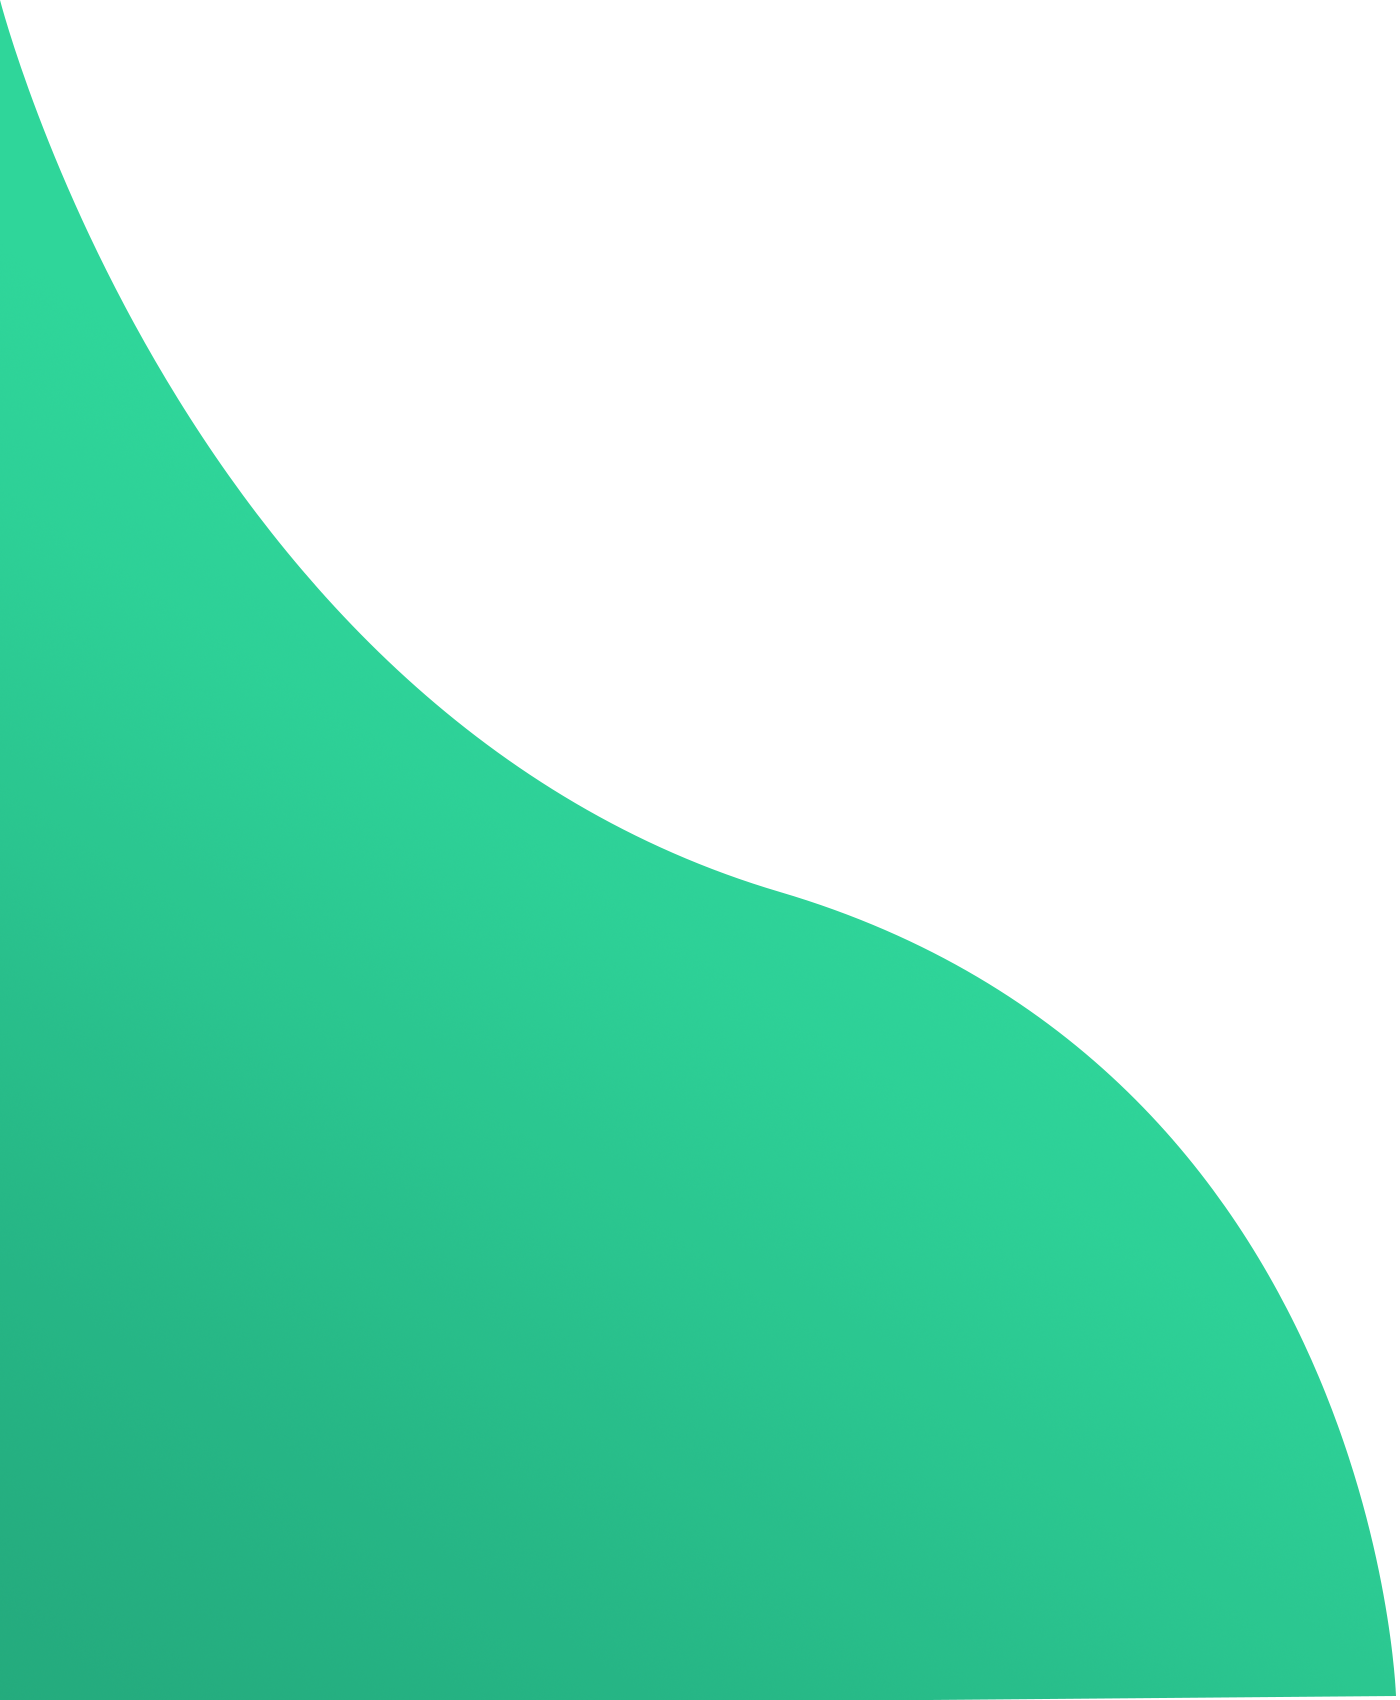
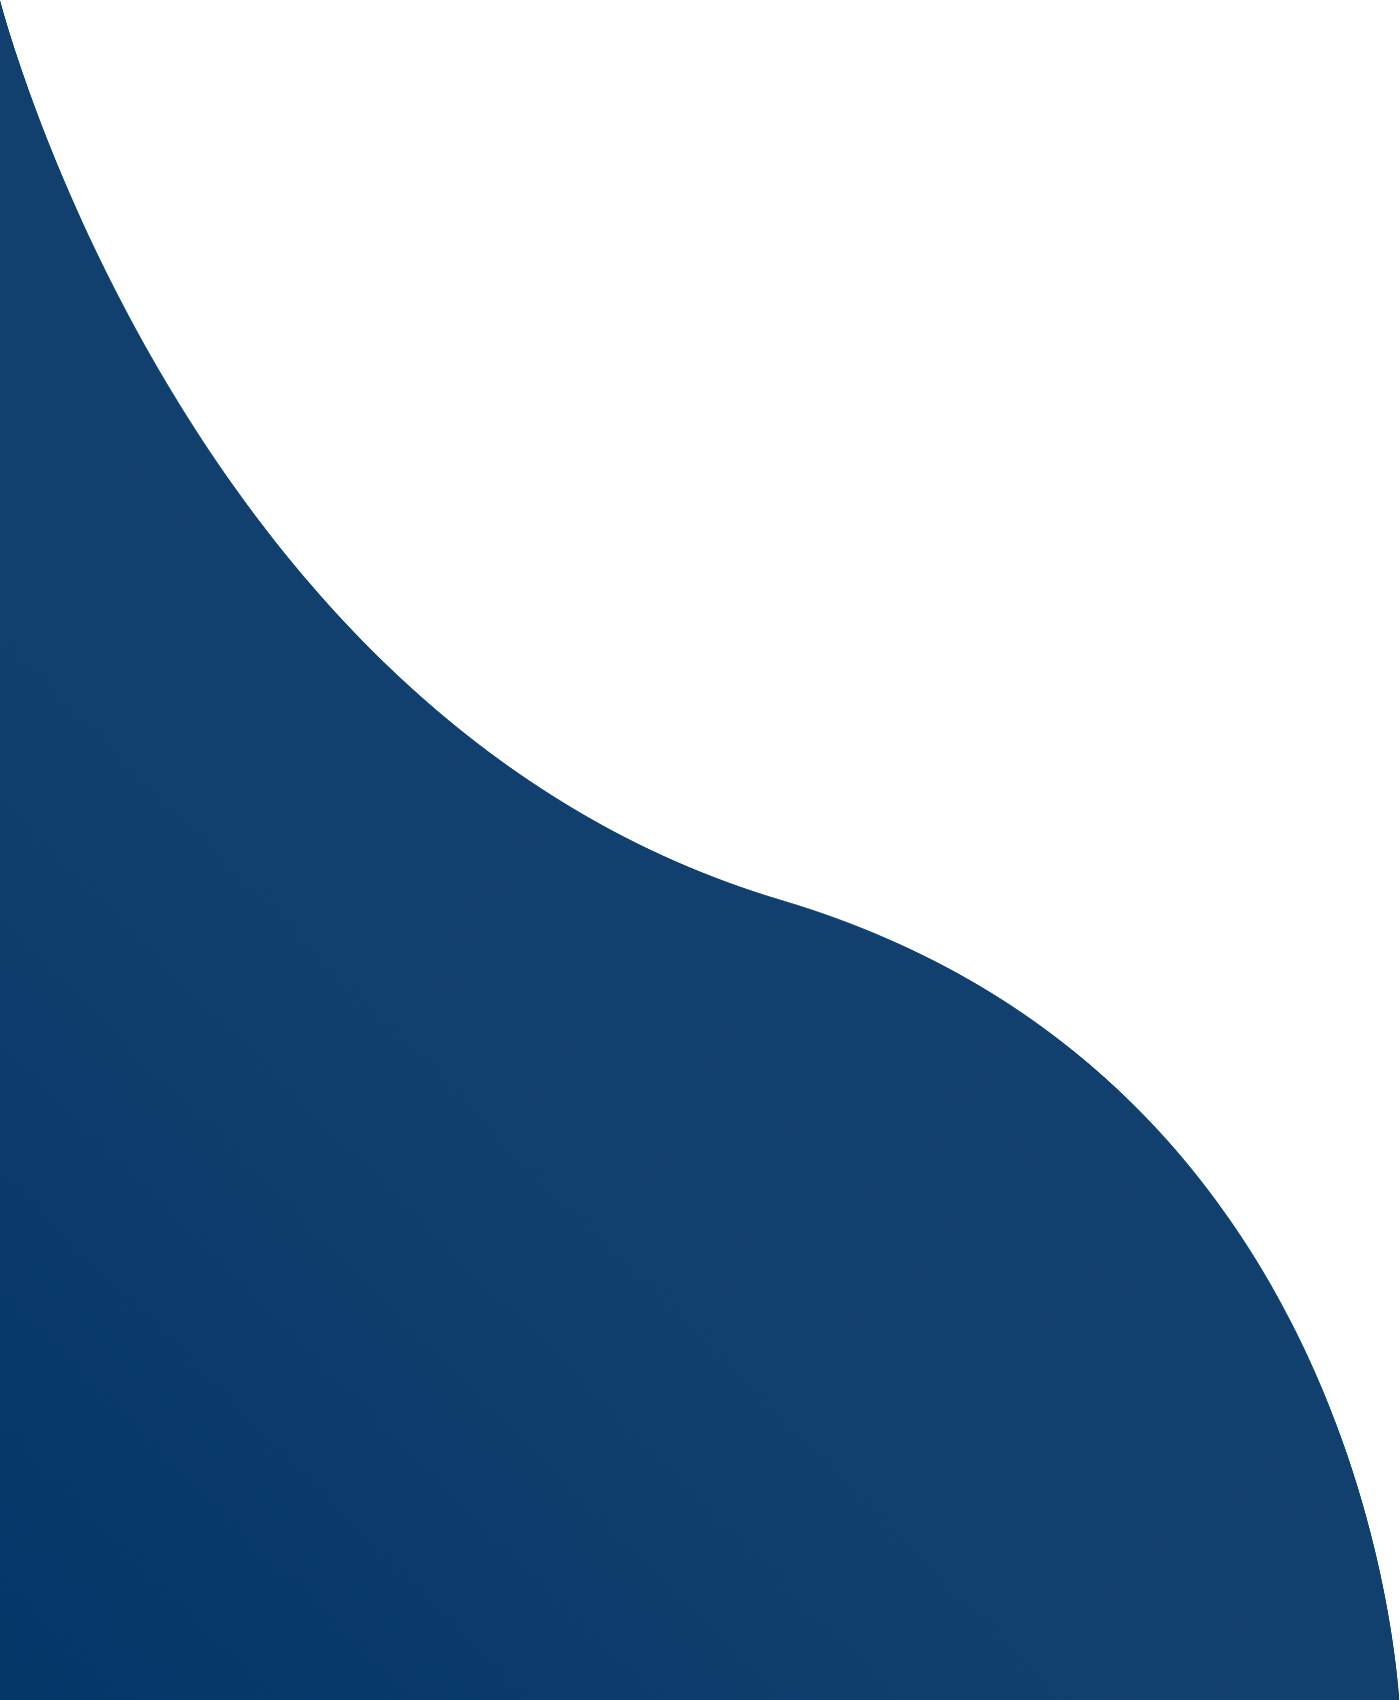
a

diff --git a/LoginV1/style.css b/LoginV1/style.css
@@ -12,6 +12,17 @@ body{
 	left: 0;
 	bottom: 0;
 	z-index: -1;
+	transition: all 0.3s ease;
+}
+.bg2{
+	position: fixed;
+	height: 100%;
+	width: 100%;
+	left: 0;
+	bottom: 0;
+	z-index: -2;
+	background-size: cover;
+	transition: 0.3s;
 }
 .container{
 	width: 100vw;
@@ -31,16 +42,20 @@ body{
 	width: 500px;
 } 
 form{
-	width: 360px;
+	width: 400px;
+	background-color: #fffdfd;
+	padding: 15px;
+	border-radius: 10px;
 }
 form h2{
 	font-size: 50px;
 	font-weight: 700;
 	text-transform: uppercase;
 	padding: 10px 0;
+	color: #f32322;
 }
 form h2 span{
-	color: #00bfa6;
+	color: #164398;
 	font-weight: 500;
 }
 .login_container{
@@ -61,7 +76,7 @@ form h2 span{
 	display: grid;
 	grid-template-columns: 7% 93%;
 	padding: 15px 0;
-	border-bottom: 1px solid #00bfa6;;
+	border-bottom: 1px solid #134397;;
 	margin: 20px 0;
 }
 .gridColum .i{
@@ -102,24 +117,24 @@ form h2 span{
 	cursor: pointer; 
 	border: none;
 	outline: none;
-	background-color: #28be8a;
+	background-color: #134397;
 	color: #fff;
 }
 .btnLogin:hover{
-	background-color: #2d9e77;
+	background-color: #144eb3;
 }
 .checkPass{
 	text-align: right;;
-	color: #28be8a;
+	color: #134397;
 	font-weight: 700;
 	padding-bottom: 10px;
 
 }
 .i{
-	color: #00bfa6;
+	color: #134397;
 }
 @media screen and (max-width: 1000px) {
-.container{
+	.container{
 		display: flex;
 		flex-direction: column;
 		justify-content: center;
@@ -132,14 +147,14 @@ form h2 span{
 	}
 	.checkPass{
 		text-align: center;
-		color: #fff;
+		color: #134397;
 	}
 	.btnLogin{
-		background-color: #44dedbde;
-		color: #2b1a1ad9;
+		background-color: #134397;
+		color: #fff;
 	}
 	.btnLogin:hover{
-		background-color: #41d2cfde;
+		background-color: #144eb3;
 	}
 	.loginDiv input{
 		transition: all 0.3s ease; 
@@ -161,10 +176,10 @@ form h2 span{
 		color: #fff;
 	}
 	.gridColum{
-		border-bottom: 1px solid #fff;
+		border-bottom: 1px solid #134397;
 	}
 	.loginDiv input::placeholder,.loginDiv input{
-		color: #fff;
+		color: #134397;
 	}
 
 }

diff --git a/LoginV1/index.html b/LoginV1/index.html
@@ -10,6 +10,7 @@
 </head>
 <body>
 	<img class="bg" src="svg/wave.png">
+	<img class="bg2" src="svg/bg2.jpg">
 	<div class="container">
 		<div class="imgTop">
 			<img src="svg/bg.svg">
